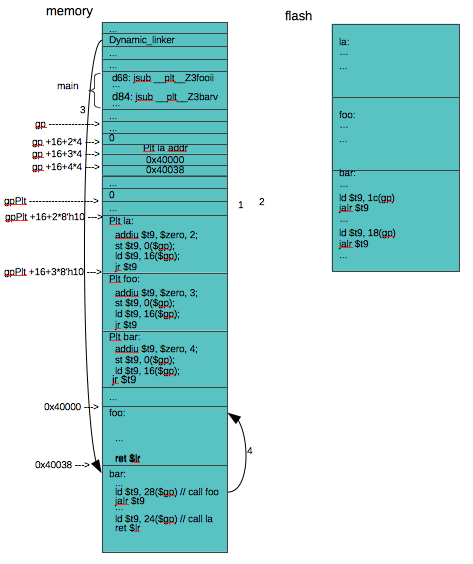
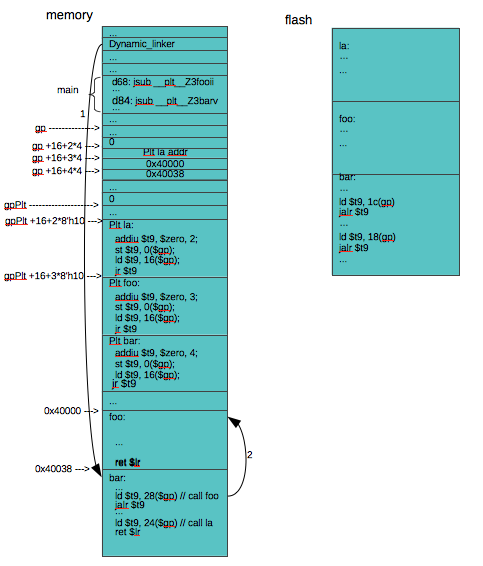
Dynamic linker change display from ret $t9 to jr $t9

diff --git a/source/lld.rst b/source/lld.rst
@@ -1401,8 +1401,9 @@ $zero, 4($gp); st $t9, 0($gp); ld $t9, 16($gp); ret $t9" as follows,
 
   Control flow transfer from calling foo() instruction of main() to dynamic linker
 
-:num:`Figure #lld-f7` is the Control flow transfer from call foo() of main() to 
-dynamic linker. After the first time of ch_dynamiclinker.cpp call foo(), it 
+:num:`Figure #lld-f7` is the Control flow which transfered from call foo() of 
+main() to dynamic linker. 
+After the first time of ch_dynamiclinker.cpp call foo(), it 
 jump to __plt_Z3fooii plt entry. 
 In __plt_Z3fooii, "ld \$t9, 1c($gp)" and "ret \$t9" will jump to "Plt foo:". 
 Since foo is the 3rd plt entry in "Plt foo:", it save 3 to 0(\$gp) memory 
@@ -1439,6 +1440,17 @@ back to caller main() when it meets the instruction "ret \$lr" in foo().
 
   Control flow transfer from calling bar() instruction of main() to dynamic linker
   
+Now the program run at the next instruction of call foo() in main() as 
+:num:`Figure #lld-f9` depicted. When it runs 
+to address 0xd84 "jsub __plt__Z3barv", the control flow will transfer from 
+main through __plt_Z3barv, "Plt bar:" and PLT0 to dynamic linker as 
+:num:`Figure #lld-f9` depicted. Then load and run bar() from flash to memory 
+as :num:`Figure #lld-f10` depicted. It just like the calling __plt__Z3fooii.
+The difference is bar() will call foo() first and call la() next. 
+The call foo() in bar() will jump to foo() directly as :num:`Figure #lld-f10` 
+because the content of gp+28 is the address of 0x40000 which is
+set by dynamic linker when the first time of foo() function is called. 
+
 .. _lld-f10: 
 .. figure:: ../Fig/lld/10.png
   :scale: 80 %
@@ -1446,16 +1458,6 @@ back to caller main() when it meets the instruction "ret \$lr" in foo().
 
   Dynamic linker load bar() from flash to memory
   
-Now the program run at the next instruction of call foo() in main() as 
-:num:`Figure #lld-f9` depicted. When it runs 
-to address 0xd8 "jsub __plt__Z3barv", the control flow will transfer from 
-main through __plt_Z3barv, "Plt bar:" and PLT0 to dynamic linker as 
-:num:`Figure #lld-f9` depicted. Then load and run bar() from flash to memory 
-as :num:`Figure #lld-f10` depicted. It just like the calling __plt__Z3fooii.
-The difference is bar() will call foo() first and call la() next. 
-The call foo() in bar() will jump to foo() directly as :num:`Figure #lld-f10` 
-because the content of gp+28 is the address of 0x40000 which
-set in dynamic linker when the first time of foo() function is called. 
 
 Finally when bar() call la() function it will jump to "Plt la:" since the 
 content of \$gp+24 point to "Plt la:". 

diff --git a/source/about.rst b/source/about.rst
@@ -32,6 +32,7 @@ Revision history
 ----------------
 
 Version 3.7.2, Not release yet
+  Dynamic linker change display from ret \$t9 to jr \$t9.
 
 Version 3.7.1, Released November 7, 2015
   Remove EM_CPU0_EL.
